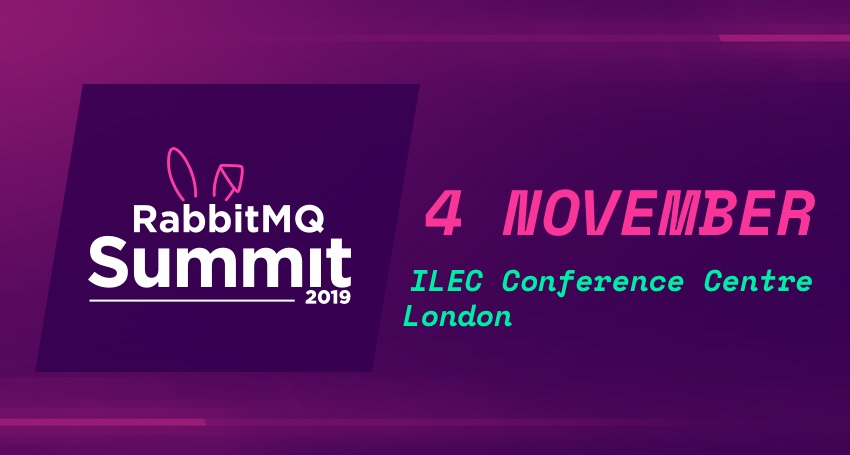
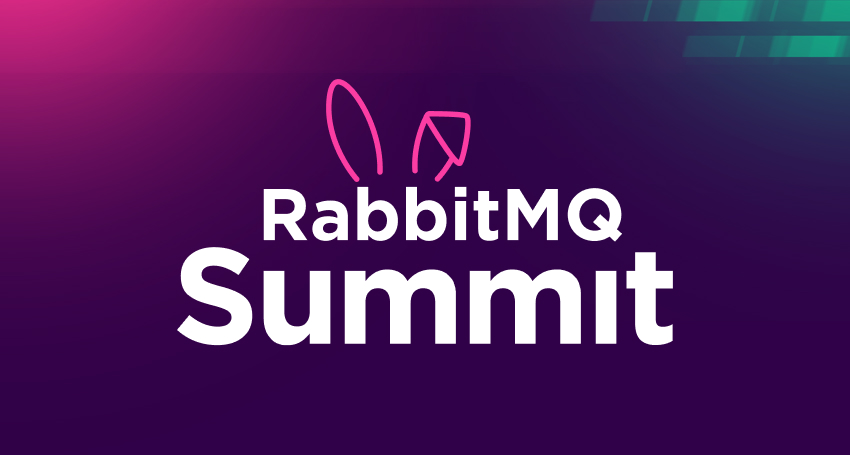
Adds generic open graph image

diff --git a/index.html b/index.html
@@ -3,7 +3,7 @@ layout: page-new
 title: The one and only exclusive RabbitMQ event
 description: >
   RabbitMQ Summit brings together RabbitMQ users and developers from around the world. Learn from speakers and keynotes on what’s happening in and around RabbitMQ.
-image: /img/og-frontpage-2019.jpg
+image: /img/og-frontpage.jpg
 footer-logo: /img/logo-pink.png
 ---
 
